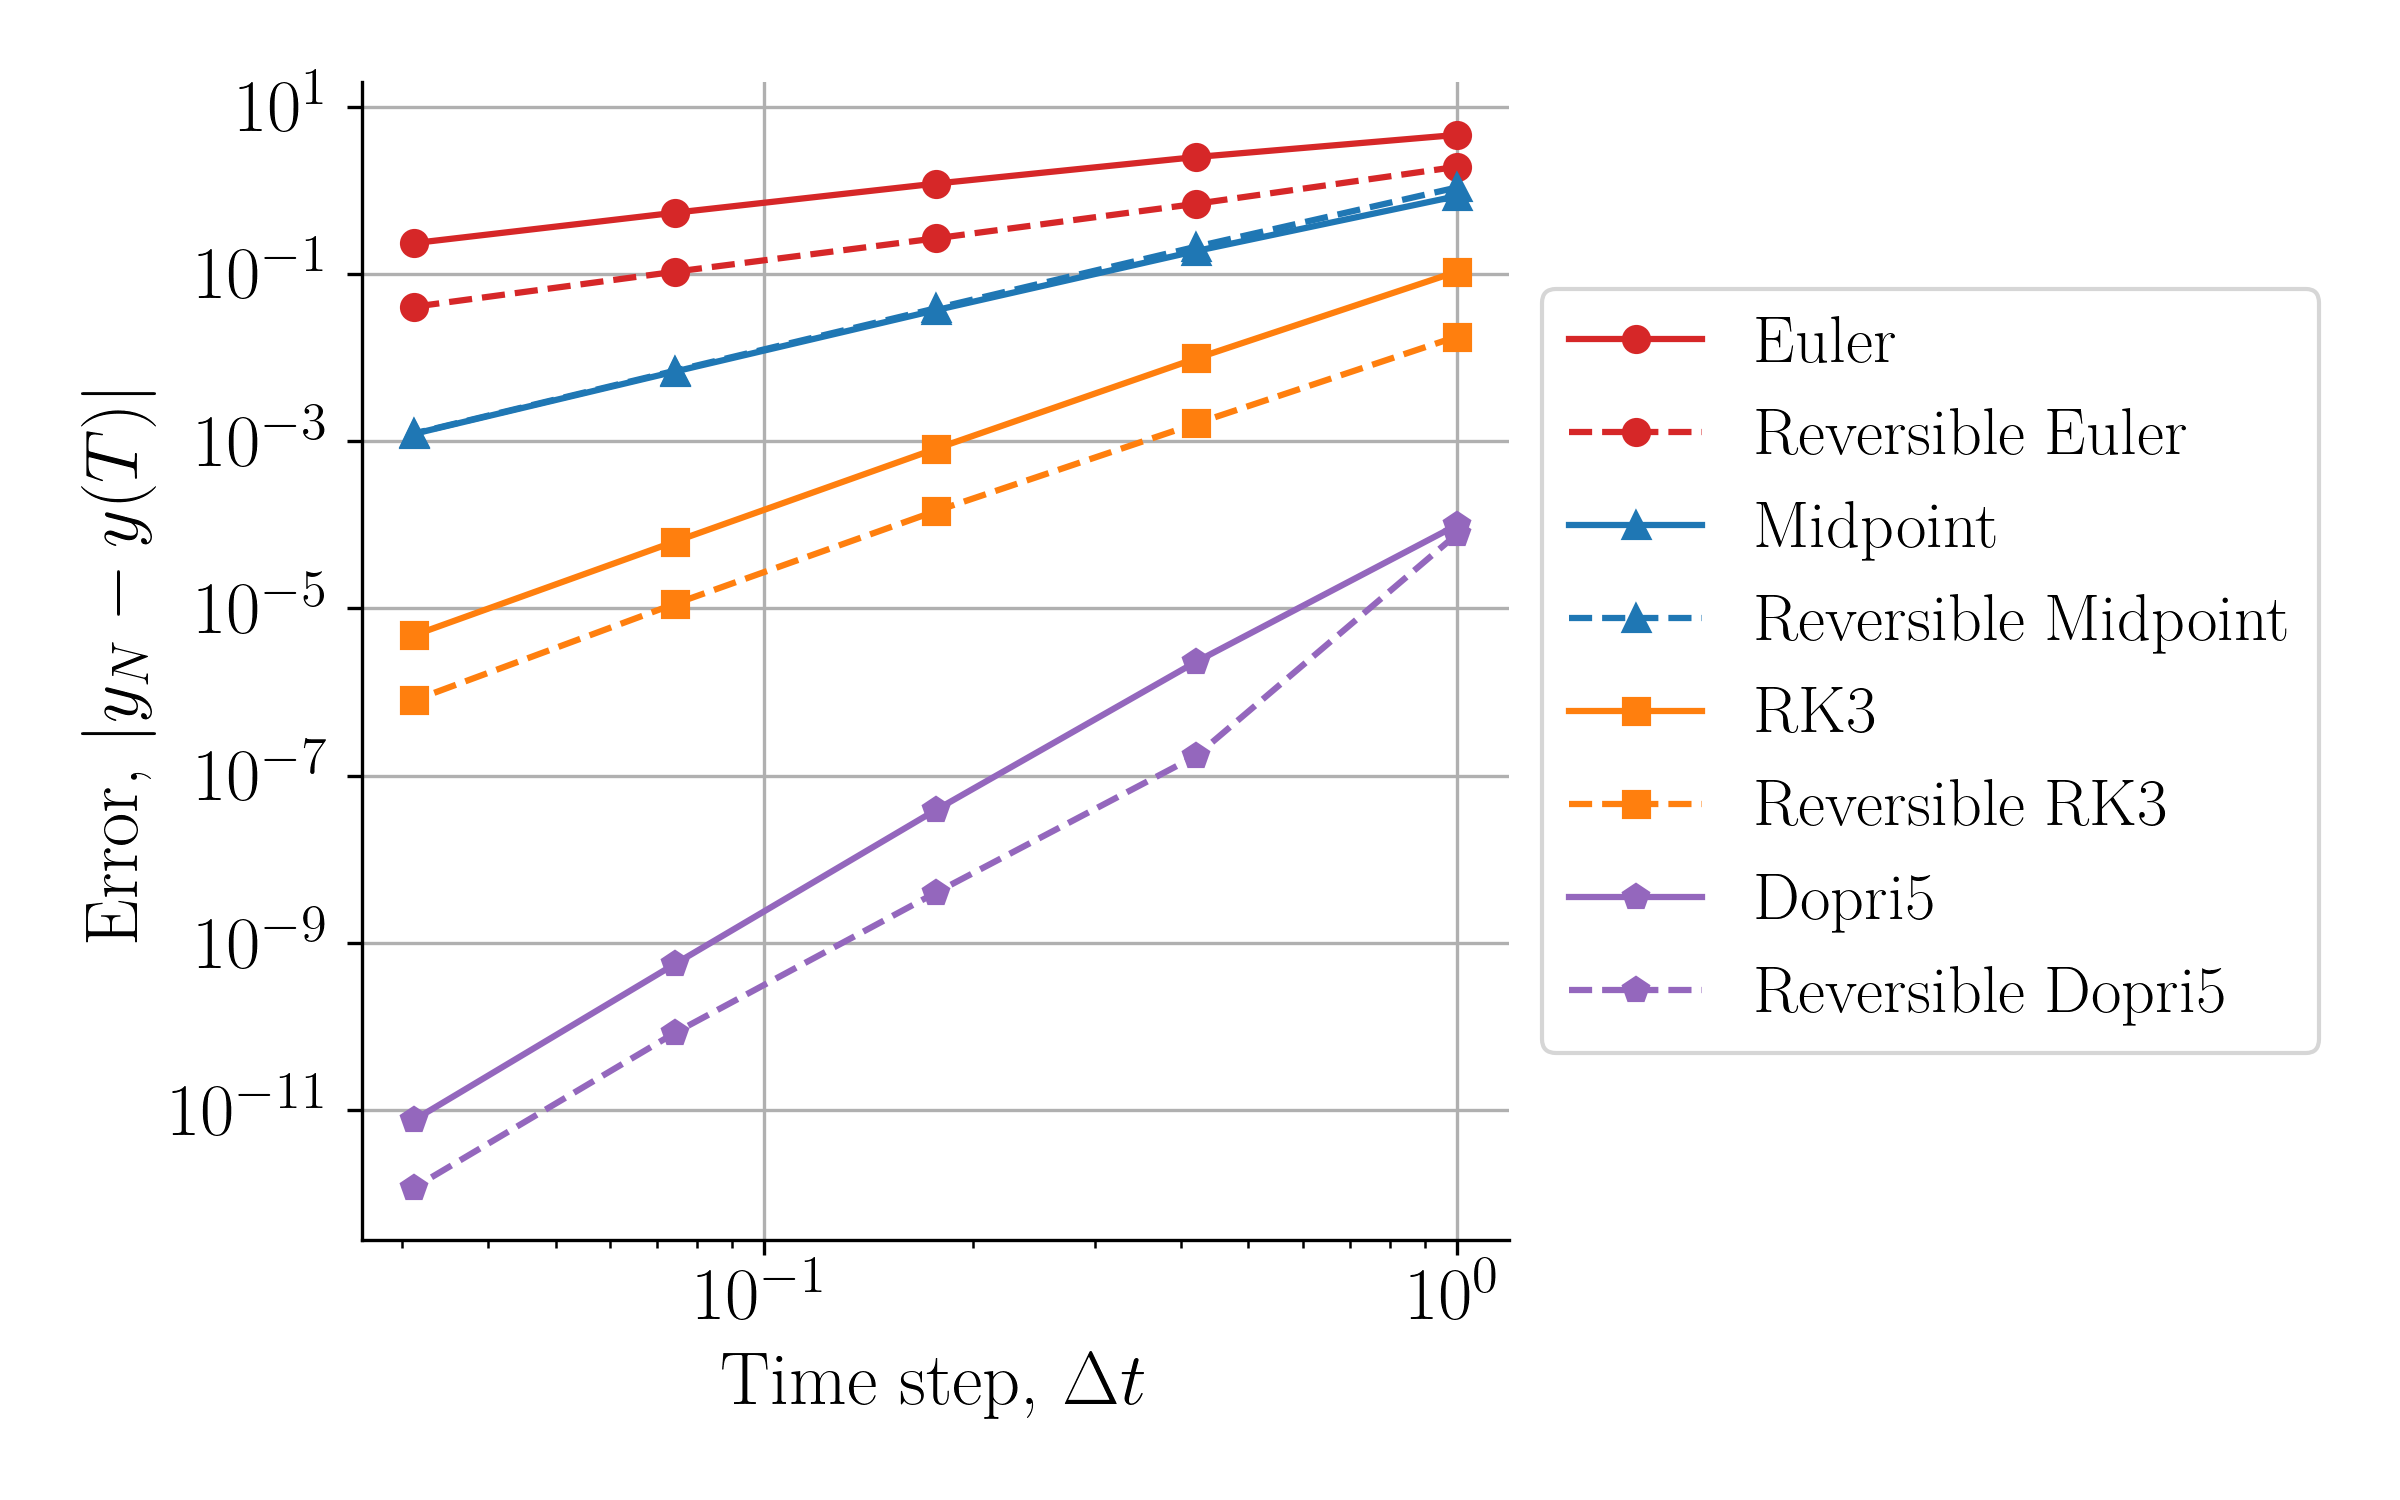
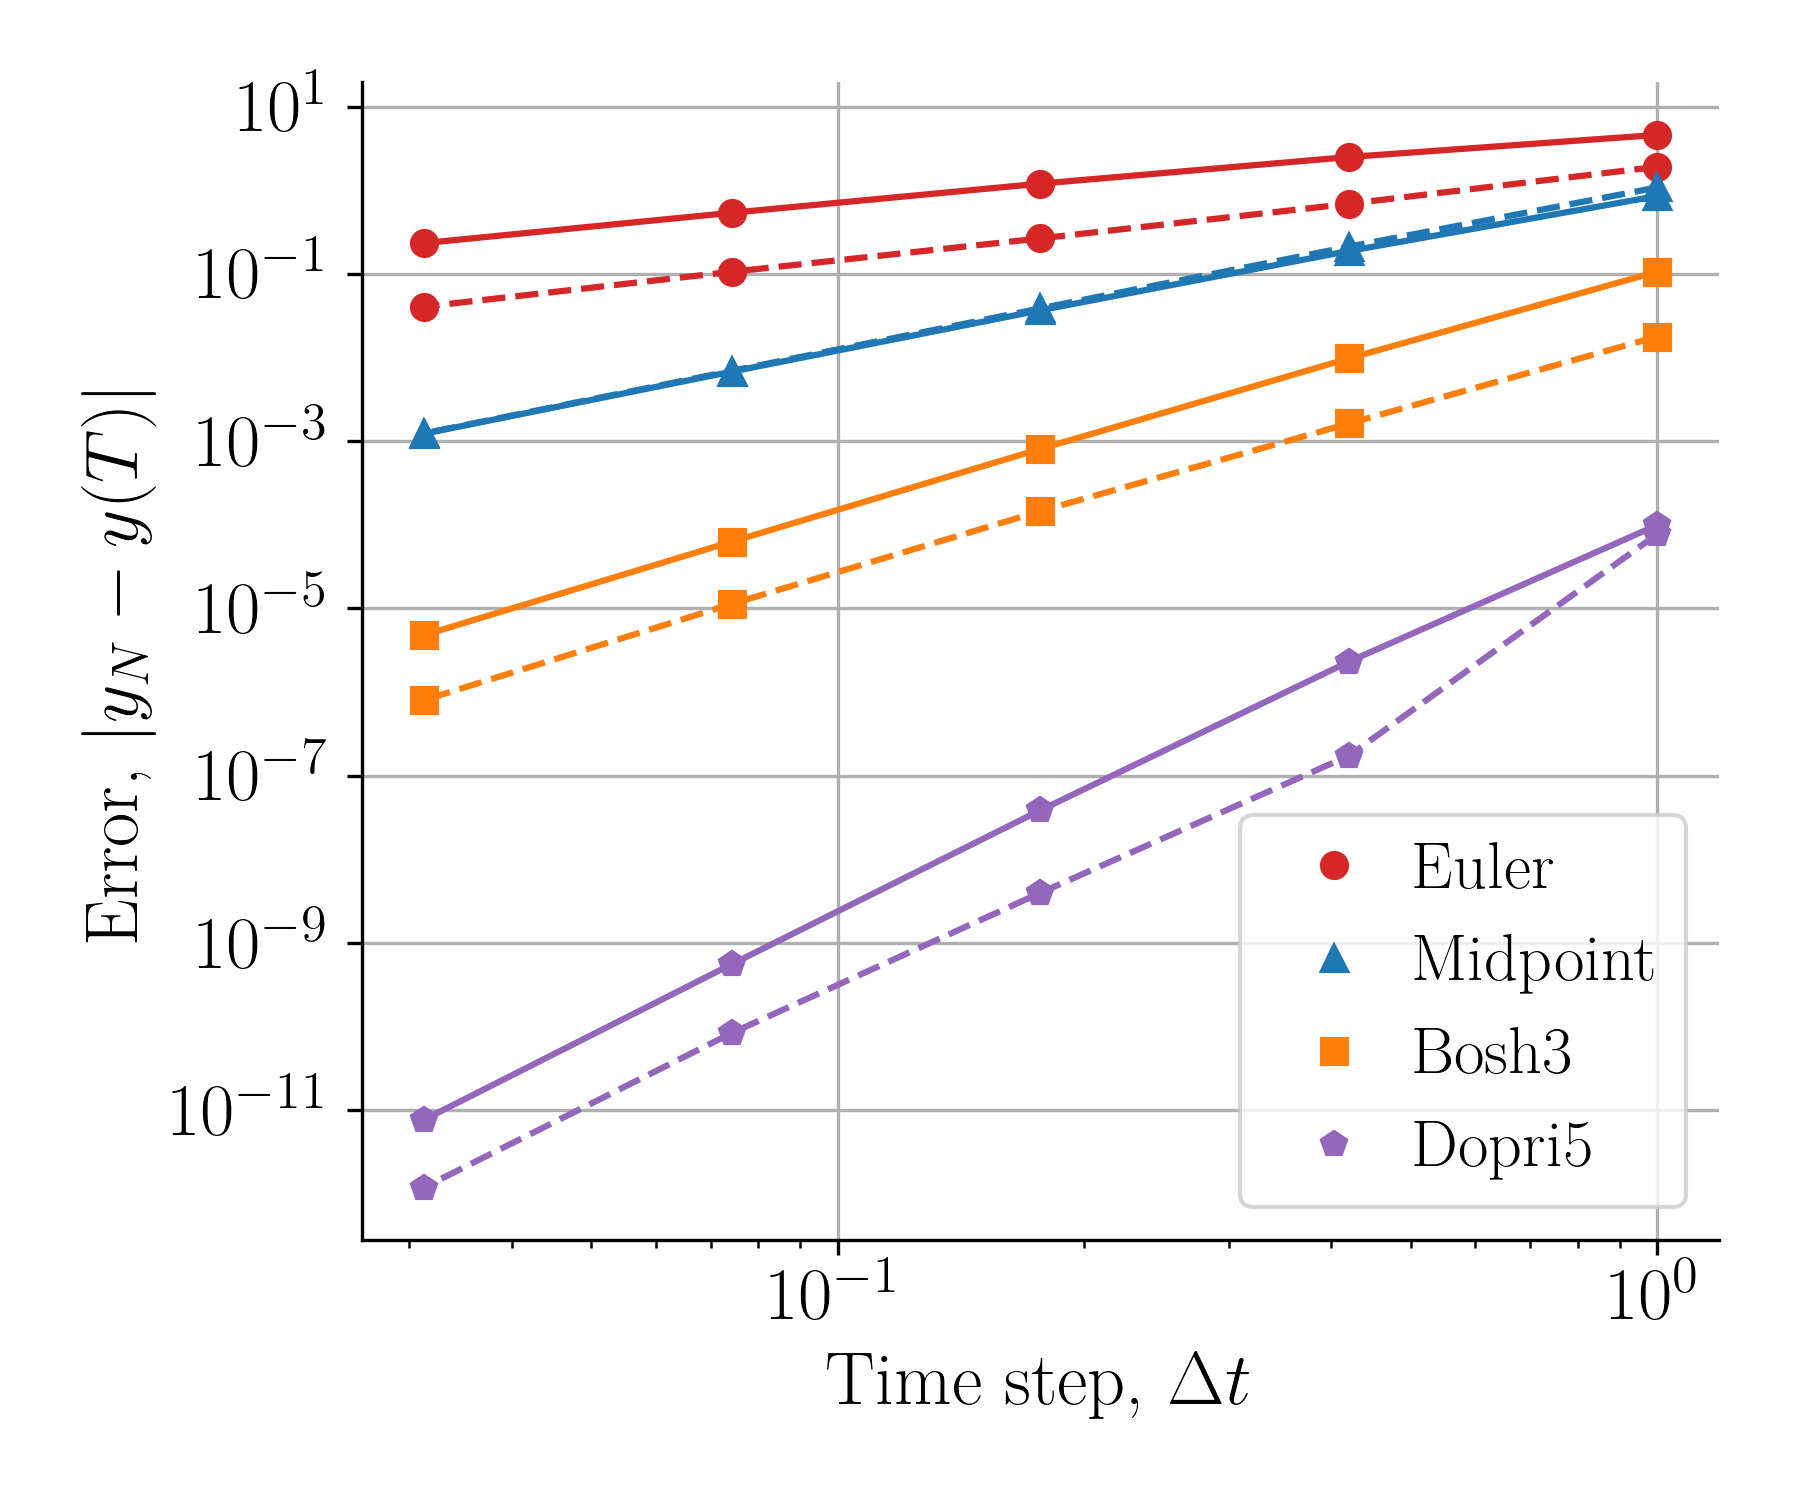
more plots and data

diff --git a/experiments/convergence/main.py b/experiments/convergence/main.py
@@ -2,6 +2,7 @@ import diffrax as dfx
 import jax
 import jax.numpy as jnp
 import matplotlib.pyplot as plt
+from matplotlib.lines import Line2D
 
 jax.config.update("jax_enable_x64", True)
 plt.rcParams.update(
@@ -84,18 +85,36 @@ def plot_order(t1, solver, solver_name, ax, marker, color):
 if __name__ == "__main__":
     t1 = 5
     solvers = [dfx.Euler(), dfx.Midpoint(), dfx.Bosh3(), dfx.Dopri5()]
-    solver_names = ["Euler", "Midpoint", "RK3", "Dopri5"]
+    solver_names = ["Euler", "Midpoint", "Bosh3", "Dopri5"]
     markers = ["o", "^", "s", "p"]
     colors = ["tab:red", "tab:blue", "tab:orange", "tab:purple"]
-    fig, ax = plt.subplots(1, 1, figsize=(8, 5))
-    for solver, name, marker, color in zip(solvers, solver_names, markers, colors):
+    custom_handles = []
+    fig, ax = plt.subplots(1, 1, figsize=(6, 5))
+    for i in range(len(solvers)):
+        solver = solvers[i]
+        name = solver_names[i]
+        marker = markers[i]
+        color = colors[i]
         plot_order(t1, solver, name, ax, marker, color)
+
+        custom_handles.append(
+            Line2D(
+                [i],
+                [i],
+                marker=markers[i],
+                label=rf"{name}",
+                color=(0, 0, 0, 0),
+                markerfacecolor=colors[i],
+                markeredgecolor=colors[i],
+            )
+        )
     plt.loglog()
     ax.spines["top"].set_visible(False)
     ax.spines["right"].set_visible(False)
     ax.set_xlabel(r"Time step, $\Delta t$")
     ax.set_ylabel(r"Error, $|y_N - y(T)|$")
     plt.grid(True)
-    plt.legend(bbox_to_anchor=(1, 0.85), loc="upper left")
+    plt.legend(handles=custom_handles, handletextpad=0.2)
+    # plt.legend(bbox_to_anchor=(1, 0.85), loc="upper left")
     plt.tight_layout()
     plt.savefig("convergence.png", dpi=300)

diff --git a/experiments/odes/white_dwarf.py b/experiments/odes/white_dwarf.py
@@ -30,7 +30,7 @@ if __name__ == "__main__":
     y0 = jnp.array([1.0, 0.0])
     t1 = 5
     dt0 = 0.005
-    solver = dfx.Dopri5()
+    solver = dfx.Midpoint()
     ts, data = solve(white_dwarf, y0, t1, dt0, solver, adjoint, args)
 
     train(
@@ -42,6 +42,6 @@ if __name__ == "__main__":
         adjoint,
         solver,
         args=args,
-        ode_model_name="white_dwarf_dropri5",
+        ode_model_name="white_dwarf_midpoint",
         steps=1000,
     )
